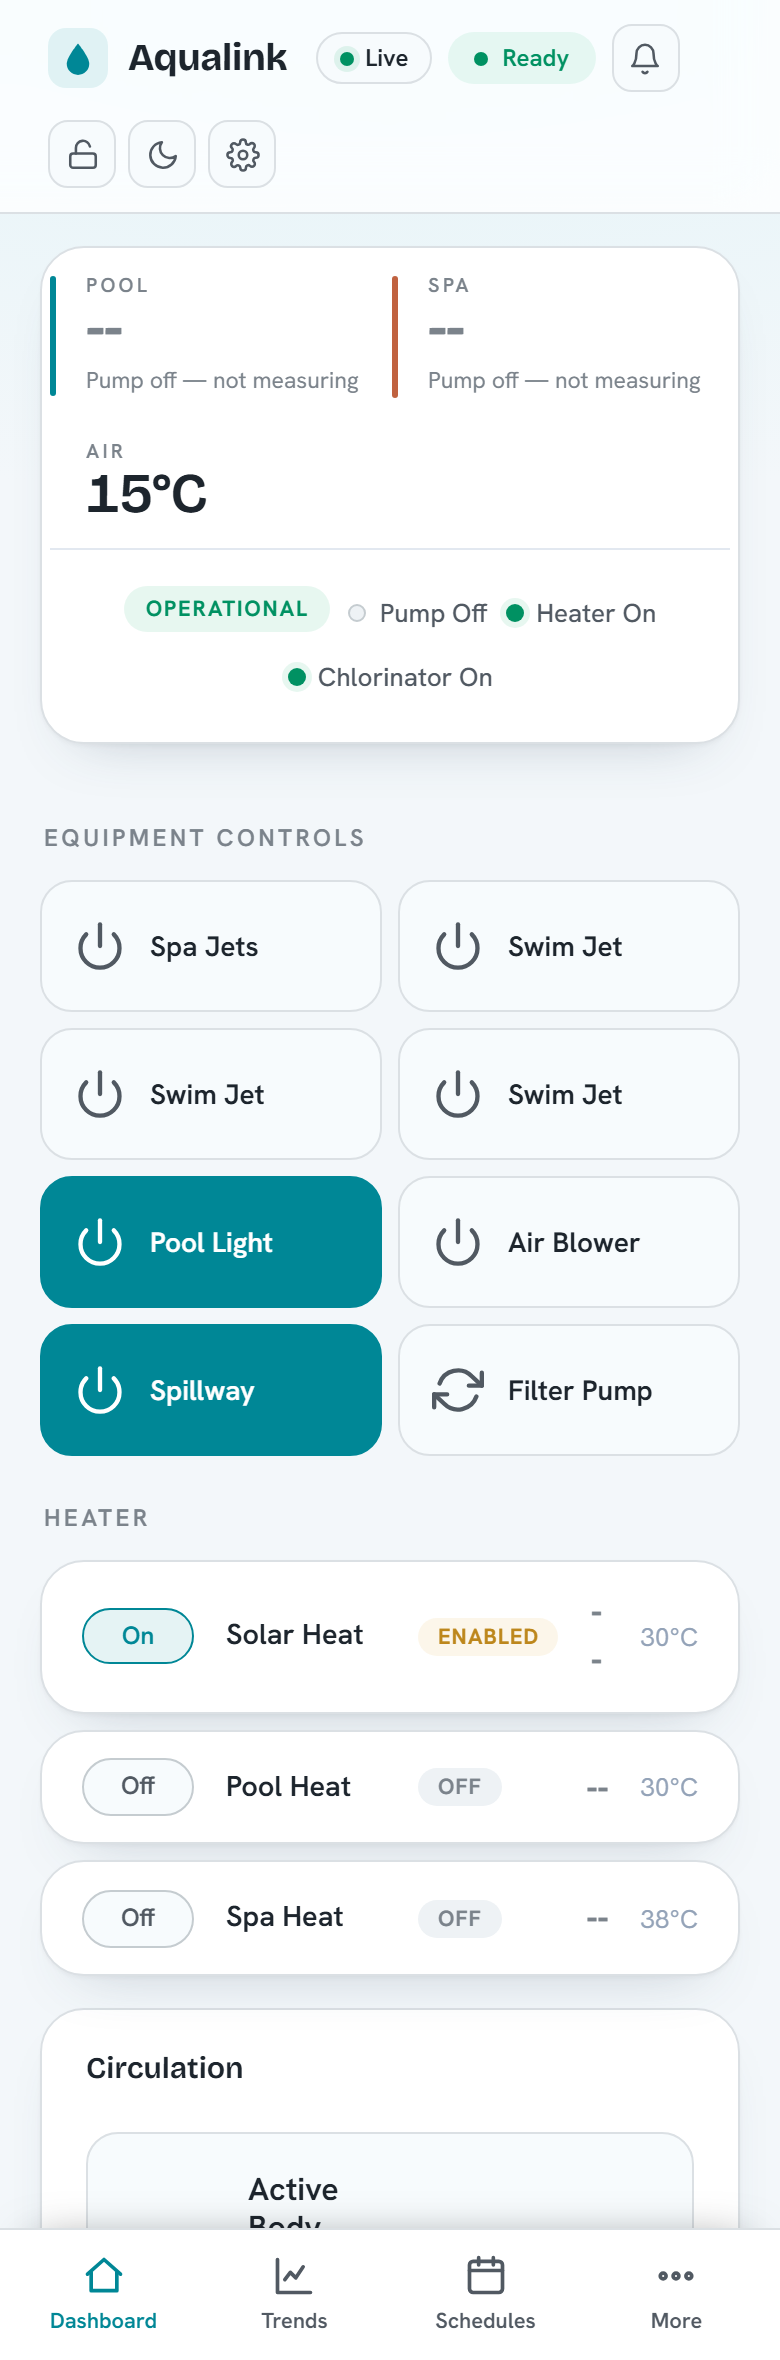
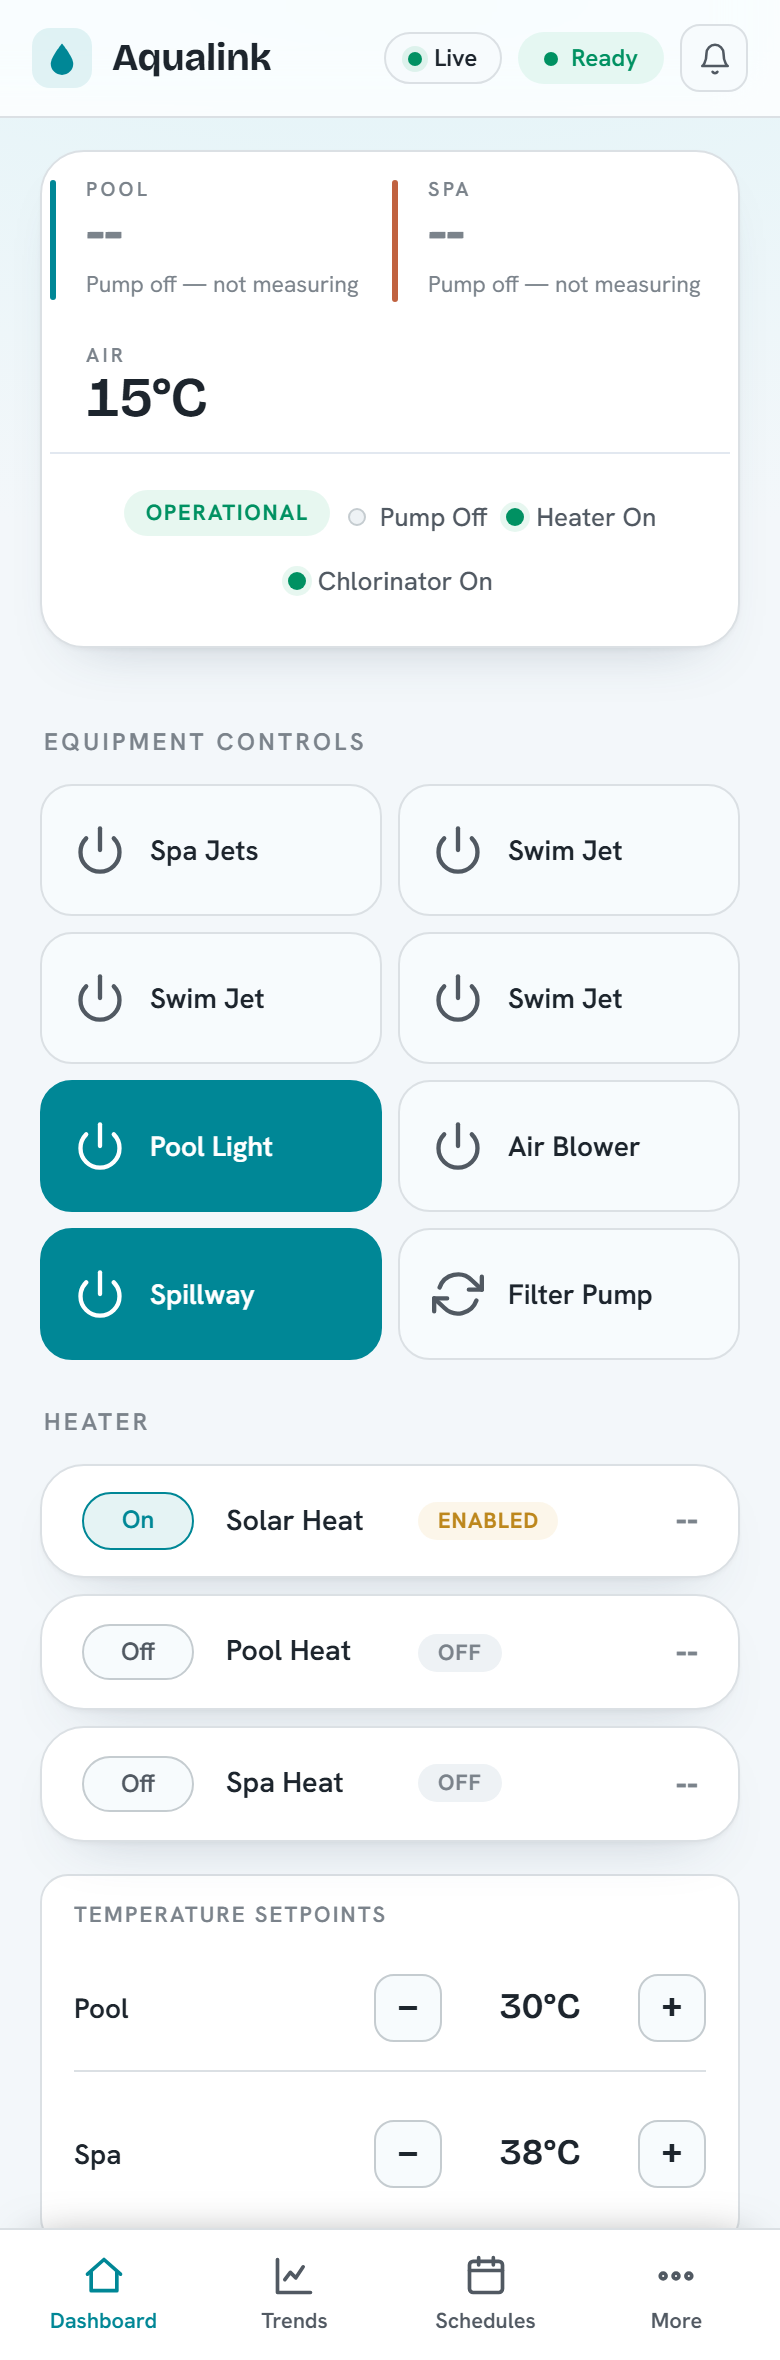
fix(web): phone dashboard — consolidate chemistry, fold in setpoints, condense header
Three phone-width (<640) fixes so the dashboard matches the locked mockup:

- Water Chemistry collapses to ONE card: pH/ORP/salt as an accent-striped
  divided row (mirroring the temperature header) with the SWG output +
  target + Set/Boost below a divider, replacing the circular gauge dials.
- Temperature setpoints fold into the Heater section as Pool/Spa steppers
  beneath the heater rows; the standalone setpoints card and the per-row
  read-only setpoint are hidden on phone.
- The top bar stays one row (brand + live/ready status + alerts); the
  monitor/theme/account toggles, which were wrapping onto a second line,
  move to the More sheet (monitor-only added there so nothing is lost).

All phone-only, gated on $store.layout.isPhone via x-if, reusing the same
chemistryGauge()/chlorinatorControl()/setpoint store bindings — desktop and
tablet-portrait are byte-for-byte unchanged (the tablet doc screenshot did
not change). No new i18n keys (reuses existing ones; 805-key parity holds).

Tests: e2e/responsive.spec.ts gains phone/desktop structural assertions
(consolidated card present + dials gone on phone; dials + toggles kept on
desktop; header single-row). Regenerated the mobile doc screenshot and
updated the docs/usage-and-api.md responsive-layout prose to match.

Also fix a latent bug in scripts/capture-doc-screenshots.js: it passed
--loglevel-audit, which the binary does not expose (matching the note
already in playwright.config.ts), so it failed to boot the capture app.

diff --git a/assets/web/index.html b/assets/web/index.html
@@ -991,6 +991,9 @@
                 <div class="sheet-divider"></div>
                 <button class="sheet-row" type="button" @click="$store.theme.toggle()"
                         x-text="$store.theme.isDark ? $t('nav.theme_to_light') : $t('nav.theme_to_dark')"></button>
+                <button class="sheet-row" type="button" @click="$store.system.toggleMonitorOnly()"
+                        :class="{ active: $store.system.monitorOnly }"
+                        x-text="$store.system.monitorOnly ? $t('nav.monitor_only_disable') : $t('nav.monitor_only_enable')"></button>
                 <button class="sheet-row" type="button" x-show="$store.auth.authenticated" x-cloak
                         @click="$store.layout.closeSheet(); window.dispatchEvent(new CustomEvent('account:open'))"
                         x-text="$t('account.title')"></button>
@@ -1155,8 +1158,11 @@
                 </div>
             </template>
 
-            <!-- Temperature Setpoints \u2014 always-visible per-body steppers -->
-            <div class="card" x-show="$store.pool.poolSetpoint !== '--' || $store.pool.spaSetpoint !== '--'">
+            <!-- Temperature Setpoints \u2014 always-visible per-body steppers.
+                 On phone these fold into the Heater card (see .heater-setpoints
+                 below), so hide this standalone card there UNLESS there is no
+                 heater section to host them (setpoints without a heater button). -->
+            <div class="card" x-show="($store.pool.poolSetpoint !== '--' || $store.pool.spaSetpoint !== '--') && !($store.layout.isPhone && heaterButtons().length > 0)">
                 <div class="card-header" x-text="$t('dash.temperature_setpoints')"></div>
                 <div class="card-body">
                     <!-- Pool setpoint -->
@@ -1192,6 +1198,8 @@
             <!-- Chemistry Gauges -->
             <section class="dsec sec-chem">
             <div class="section-title" x-text="$t('dash.water_chemistry')"></div>
+            <!-- Desktop/tablet: circular gauge dials + a separate SWG card. -->
+            <template x-if="!$store.layout.isPhone">
             <div class="gauge-grid mb-2">
                 <template x-for="type in ['ph', 'orp', 'salt']" :key="type">
                     <div class="gauge-card" x-data="chemistryGauge(type)"
@@ -1254,6 +1262,57 @@
                     </div>
                 </div>
             </div>
+            </template>
+
+            <!-- Phone: one consolidated card — pH·ORP·Salt as a divided row
+                 (mirrors the temperature header), then SWG output + Set/Boost
+                 below a divider. Same chemistryGauge()/chlorinatorControl()
+                 components as the desktop dials, so no data path is duplicated. -->
+            <template x-if="$store.layout.isPhone">
+            <div class="chem-compact card mb-2">
+                <div class="chem-compact-row">
+                    <template x-for="type in ['ph', 'orp', 'salt']" :key="type">
+                        <div class="chem-cell" x-data="chemistryGauge(type)" :class="'chem-cell--' + type">
+                            <span class="chem-cell-accent" aria-hidden="true"></span>
+                            <span class="chem-cell-label" x-text="cfg.label"></span>
+                            <span class="chem-cell-value" :style="`color:${statusColor}`"
+                                  x-text="numericValue === null ? '--' : $nf(numericValue, cfg.decimals)"></span>
+                            <span class="chem-cell-unit" x-text="unitLabel"></span>
+                            <span class="chem-cell-band" x-show="band" :class="'gauge-band-' + (band || '')" x-text="statusLabel"></span>
+                        </div>
+                    </template>
+                </div>
+                <div class="chem-compact-swg" x-data="chlorinatorControl()" x-show="present" x-cloak
+                     role="region" :aria-label="$t('dash.swg_aria')">
+                    <div class="chem-compact-divider" aria-hidden="true"></div>
+                    <div class="chem-swg-head">
+                        <span class="chem-swg-label" x-text="$t('dash.swg_output')"></span>
+                        <span class="chem-swg-value" :style="`color:${healthColor}`" x-text="actualLabel"></span>
+                        <span class="gauge-band-indicator" x-show="healthBand" :class="'gauge-band-' + (healthBand || '')" x-text="healthLabel"></span>
+                    </div>
+                    <div class="swg-target">
+                        <span class="swg-target-label" x-text="$t('dash.target')"></span>
+                        <input type="range" min="0" max="100" step="5" class="swg-slider"
+                               x-model.number="target" @input="touched = true"
+                               :disabled="busy || !$store.auth.can('equipment.control.chlorinator')"
+                               :aria-label="$t('dash.target_aria')">
+                        <span class="swg-target-value" x-text="$n(target) + '%'"></span>
+                    </div>
+                    <div class="swg-actions">
+                        <template x-if="$store.auth.can('equipment.control.chlorinator')">
+                            <div class="swg-actions-inner">
+                                <button class="swg-set-btn" @click="setPercent()" :disabled="busy || !changed" x-text="$t('dash.set')"></button>
+                                <button class="swg-boost-btn" :class="{ active: boost }" @click="toggleBoost()"
+                                        :disabled="busy" :aria-pressed="boost" x-text="$t('dash.boost')"></button>
+                                <span class="cmd-badge cmd-applied" x-show="feedback === 'applied'" x-transition.opacity x-text="$t('cmd.set_ok')"></span>
+                                <span class="cmd-badge cmd-rejected" x-show="feedback === 'rejected'" x-transition.opacity x-text="$t('cmd.failed')"></span>
+                            </div>
+                        </template>
+                        <span class="swg-locked-note" x-show="!$store.auth.can('equipment.control.chlorinator')" x-cloak x-text="$t('auth.locked_adjust')"></span>
+                    </div>
+                </div>
+            </div>
+            </template>
             </section>
 
             <!-- Heater Controls -->
@@ -1294,6 +1353,38 @@
                             </div>
                         </template>
                     </div>
+                    <!-- Setpoints folded into the Heater card on phone (mockup:
+                         "Heater & Setpoints"). Same store-backed steppers as the
+                         standalone card, which is hidden here at phone width. -->
+                    <template x-if="$store.layout.isPhone && ($store.pool.poolSetpoint !== '--' || $store.pool.spaSetpoint !== '--')">
+                        <div class="heater-setpoints">
+                            <div class="heater-setpoints-title" x-text="$t('dash.temperature_setpoints')"></div>
+                            <div class="setpoint-row" x-show="$store.pool.poolSetpoint !== '--'">
+                                <span class="setpoint-row-label" x-text="$t('common.pool')"></span>
+                                <span class="setpoint-feedback">
+                                    <span class="cmd-badge cmd-applied" x-show="$store.pool.getCommandState('setpoint:pool') === 'applied'" x-transition.opacity x-text="$t('cmd.applied')"></span>
+                                    <span class="cmd-badge cmd-rejected" x-show="$store.pool.getCommandState('setpoint:pool') === 'rejected'" x-transition.opacity x-text="$t('cmd.rejected')"></span>
+                                </span>
+                                <div class="setpoint-stepper">
+                                    <button class="setpoint-btn" :aria-label="$t('dash.decrease_setpoint', { body: $t('common.pool') })" @click="$store.pool.adjustSetpoint('pool', -0.5)">&minus;</button>
+                                    <span class="setpoint-row-value" x-text="$store.pool.poolSetpointDisplay"></span>
+                                    <button class="setpoint-btn" :aria-label="$t('dash.increase_setpoint', { body: $t('common.pool') })" @click="$store.pool.adjustSetpoint('pool', 0.5)">+</button>
+                                </div>
+                            </div>
+                            <div class="setpoint-row" x-show="$store.pool.spaSetpoint !== '--'">
+                                <span class="setpoint-row-label" x-text="$t('common.spa')"></span>
+                                <span class="setpoint-feedback">
+                                    <span class="cmd-badge cmd-applied" x-show="$store.pool.getCommandState('setpoint:spa') === 'applied'" x-transition.opacity x-text="$t('cmd.applied')"></span>
+                                    <span class="cmd-badge cmd-rejected" x-show="$store.pool.getCommandState('setpoint:spa') === 'rejected'" x-transition.opacity x-text="$t('cmd.rejected')"></span>
+                                </span>
+                                <div class="setpoint-stepper">
+                                    <button class="setpoint-btn" :aria-label="$t('dash.decrease_setpoint', { body: $t('common.spa') })" @click="$store.pool.adjustSetpoint('spa', -0.5)">&minus;</button>
+                                    <span class="setpoint-row-value" x-text="$store.pool.spaSetpointDisplay"></span>
+                                    <button class="setpoint-btn" :aria-label="$t('dash.increase_setpoint', { body: $t('common.spa') })" @click="$store.pool.adjustSetpoint('spa', 0.5)">+</button>
+                                </div>
+                            </div>
+                        </div>
+                    </template>
                 </div>
             </template>
 

diff --git a/assets/web/styles/components.css b/assets/web/styles/components.css
@@ -3032,4 +3032,47 @@ main input[type="range"] { accent-color: var(--accent); }
     .mstat-type { min-width: 0; overflow: hidden; text-overflow: ellipsis; white-space: nowrap; }
     .mqtt-val { min-width: 0; overflow-wrap: anywhere; }
     .mqtt-mono { overflow-wrap: anywhere; }
+
+    /* --- Phone: setpoints folded into the Heater card ("Heater & Setpoints") ---
+       The per-row read-only setpoint is dropped (the footer steppers below the
+       heater rows show the same values, adjustable), and a card-like footer
+       hosts the Pool/Spa steppers reused from the standalone card. */
+    .heater-row .heater-setpoint { display: none; }
+    .heater-setpoints {
+        display: flex; flex-direction: column; gap: 10px;
+        margin-top: 10px; padding: 14px 16px;
+        background: var(--surface-1); border: 1px solid var(--border); border-radius: 14px;
+    }
+    .heater-setpoints-title {
+        font: 600 11px/1 var(--font-ui); letter-spacing: .1em; text-transform: uppercase;
+        color: var(--text-faint);
+    }
+
+    /* --- Phone: consolidated Water Chemistry card ---
+       pH·ORP·Salt as an accent-striped divided row (mirrors the temperature
+       header), then SWG output + Target + Set/Boost below a divider. */
+    .chem-compact { padding: 0; overflow: hidden; }
+    .chem-compact-row { display: flex; }
+    .chem-cell {
+        position: relative; flex: 1 1 0; min-width: 0;
+        display: flex; flex-direction: column; gap: 3px;
+        padding: 15px 12px; padding-inline-start: 20px;
+    }
+    .chem-cell + .chem-cell { border-inline-start: 1px solid var(--border); }
+    .chem-cell-accent {
+        position: absolute; inset-inline-start: 11px; top: 16px; bottom: 16px;
+        width: 3px; border-radius: 2px; background: var(--border-strong);
+    }
+    .chem-cell--ph   .chem-cell-accent { background: var(--accent); }
+    .chem-cell--orp  .chem-cell-accent { background: #3b82f6; }
+    .chem-cell--salt .chem-cell-accent { background: var(--good); }
+    .chem-cell-label { font: 600 10px/1 var(--font-ui); letter-spacing: .1em; text-transform: uppercase; color: var(--text-faint); }
+    .chem-cell-value { font-family: var(--font-display); font-weight: 600; font-size: 25px; line-height: 1.05; font-variant-numeric: tabular-nums; }
+    .chem-cell-unit { font-size: 11px; color: var(--text-faint); }
+    .chem-cell-band { margin-top: 2px; font: 600 10px/1.2 var(--font-ui); letter-spacing: .04em; }
+    .chem-compact-swg { padding: 4px 16px 16px; }
+    .chem-compact-divider { height: 1px; background: var(--border); margin: 0 -16px 14px; }
+    .chem-swg-head { display: flex; align-items: baseline; gap: 10px; margin-bottom: 12px; }
+    .chem-swg-label { font: 600 10px/1 var(--font-ui); letter-spacing: .1em; text-transform: uppercase; color: var(--text-faint); }
+    .chem-swg-value { margin-inline-start: auto; font-family: var(--font-display); font-weight: 600; font-size: 22px; font-variant-numeric: tabular-nums; }
 }

diff --git a/e2e/responsive.spec.ts b/e2e/responsive.spec.ts
@@ -172,3 +172,42 @@ test.describe('RTL / Arabic (phone)', () => {
     await expect(page).toHaveScreenshot('dashboard-phone-rtl.png', { fullPage: true, maxDiffPixelRatio: 0.02, ...mask(page) });
   });
 });
+
+// Phone dashboard structural reflow (the mockup-matching Phase 2 pieces). The
+// e2e webServer runs the chemistry-only AquaRite fixture, so these cover the
+// chemistry consolidation + header condensation; the heater-setpoints fold-in
+// needs the equipment-rich OneTouch fixture and is exercised by
+// scripts/capture-responsive-screenshots.js + verify.
+test.describe('phone dashboard structure (390)', () => {
+  test.use({ viewport: { width: 390, height: 800 } });
+
+  test('chemistry collapses to one consolidated card (no circular dials)', async ({ page }) => {
+    await page.goto('/#dashboard');
+    await page.waitForTimeout(600);
+    await expect(page.locator('.chem-compact'), 'phone: one consolidated chemistry card').toBeVisible();
+    await expect(page.locator('.gauge-card'), 'phone: circular gauge dials replaced').toHaveCount(0);
+  });
+
+  test('top bar stays a single row with the settings toggles in the More sheet', async ({ page }) => {
+    await page.goto('/#dashboard');
+    await page.waitForTimeout(400);
+    await expect(page.locator('nav.app-nav .nav-controls'), 'phone: header toggles hidden (live in More)').toBeHidden();
+    // Brand and the live/ready status cluster share one row — no wrap onto a second line.
+    const brand = await page.locator('nav.app-nav .nav-brand').boundingBox();
+    const status = await page.locator('nav.app-nav .nav-status').boundingBox();
+    expect(brand && status, 'brand + status both present').toBeTruthy();
+    expect(Math.abs(brand!.y - status!.y), 'brand and status on the same row').toBeLessThan(brand!.height);
+  });
+});
+
+test.describe('desktop dashboard structure (1280)', () => {
+  test.use({ viewport: { width: 1280, height: 900 } });
+
+  test('keeps the circular chemistry dials and the header control toggles', async ({ page }) => {
+    await page.goto('/#dashboard');
+    await page.waitForTimeout(600);
+    await expect(page.locator('.chem-compact'), 'desktop: no phone consolidated card').toHaveCount(0);
+    await expect(page.locator('.gauge-card').first(), 'desktop: circular dials present').toBeVisible();
+    await expect(page.locator('nav.app-nav .nav-controls'), 'desktop: header toggles visible').toBeVisible();
+  });
+});

diff --git a/scripts/capture-doc-screenshots.js b/scripts/capture-doc-screenshots.js
@@ -61,9 +61,11 @@ if (!fs.existsSync(EXE)) {
 }
 
 // --replay-filename depends on --dev-mode, --profiler and every per-channel
-// log level (see playwright.config.ts for the full explanation).
+// log level (see playwright.config.ts for the full explanation). 'audit' is
+// deliberately absent — it is a separate subsystem, not an operational log
+// channel, so the binary exposes no --loglevel-audit (matches playwright.config.ts).
 const LOG_CHANNELS = [
-  'audit', 'main', 'certificates', 'coroutines', 'developer', 'devices',
+  'main', 'certificates', 'coroutines', 'developer', 'devices',
   'equipment', 'exceptions', 'messages', 'mqtt', 'navigation', 'options',
   'platform', 'profiling', 'protocol', 'scraping', 'serial', 'signals', 'web',
 ];
@@ -193,13 +195,17 @@ async function captureMobile(browser) {
       }
     });
 
-    // Phone: iPhone-ish 390-wide viewport — bottom tab bar, 2-up gauges,
-    // equipment tap-tiles.
+    // Phone: iPhone-ish 390-wide viewport — bottom tab bar, equipment tap-tiles,
+    // heater+setpoints, and the CONSOLIDATED chemistry card (which replaces the
+    // circular dials on phone), so wait on that card's live value rather than the
+    // desktop dials waitLiveDashboard() keys off.
     await shot('aqualink-automate-mobile-dashboard.png', async () => {
       const { ctx, page } = await newPage(browser, base, { width: 390, height: 1180 });
       await page.goto('/');
-      await waitLiveDashboard(page);
       await page.locator('.mobile-tab-bar').waitFor({ timeout: 10_000 });
+      await page.locator('.chem-compact').waitFor({ timeout: 20_000 });
+      await page.locator('.chem-compact .chem-cell-value').filter({ hasText: /\d/ }).first().waitFor({ timeout: 20_000 });
+      await page.waitForTimeout(750);
       await tidy(page);
       await page.waitForTimeout(400);
       await page.screenshot(png('aqualink-automate-mobile-dashboard.png'));

diff --git a/assets/web/styles/app.css b/assets/web/styles/app.css
@@ -2102,4 +2102,13 @@ nav.app-nav .nav-hamburger:hover { color: var(--text); background: var(--surface
     nav.app-nav .nav-links { display: none; }
     .mobile-tab-bar { display: flex; }
     main { padding-bottom: calc(72px + env(safe-area-inset-bottom, 0px)); }
+
+    /* Phone top bar = one non-wrapping row: brand on the left, the live/ready
+       status + alerts bell pushed to the right. The settings toggles (monitor,
+       theme, account, admin, sign-in) move out of the bar and into the "More"
+       sheet, so they no longer wrap onto a second line. */
+    nav.app-nav .nav-inner { flex-wrap: nowrap; gap: 8px; padding-inline: 16px; }
+    nav.app-nav .nav-brand { flex: 0 0 auto; }
+    nav.app-nav .nav-status { margin-inline-start: auto; flex: 0 0 auto; }
+    nav.app-nav .nav-controls { display: none; }
 }

diff --git a/docs/usage-and-api.md b/docs/usage-and-api.md
@@ -90,7 +90,7 @@ The UI is a single responsive web app — there is no separate mobile build or n
 | `640–1023px` | Tablet | The inline links collapse behind a **hamburger** button that opens a nav drawer. |
 | `≥ 1024px` | Desktop | The full **inline navigation** in the top bar. |
 
-On phones the dashboard reorders itself around what you act on most: a condensed Pool/Spa/Air temperature header, then equipment as two-up **tap-tiles** (tap to toggle; a tile fills with the accent colour when its device is on), the heater cards with inline setpoints, and the water-chemistry gauges two-up. Tablet portrait keeps the richer multi-column card grid under the hamburger; tablet landscape and desktop use the full inline layout. Modals become full-width bottom sheets on phones and centred dialogs on wider screens.
+On phones the dashboard reorders and consolidates itself around what you act on most: a condensed Pool/Spa/Air temperature header; equipment as two-up **tap-tiles** (tap to toggle; a tile fills with the accent colour when its device is on); the heater rows with the temperature-setpoint steppers folded in beneath them; and the water chemistry collapsed into a single card — pH, ORP and salt as an accent-striped row with the salt-water generator output and controls below. The top bar condenses to one row (brand, live/ready status, alerts), with the theme and other toggles moving into the **More** sheet. Tablet portrait keeps the richer multi-column card grid — circular chemistry dials, a standalone setpoints card — under the hamburger; tablet landscape and desktop use the full inline layout. Modals become full-width bottom sheets on phones and centred dialogs on wider screens.
 
 <p align="center">
   <img src="assets/aqualink-automate-mobile-dashboard.png" alt="The dashboard on a phone — condensed temperature header, equipment tap-tiles, and a bottom tab bar" width="300">
